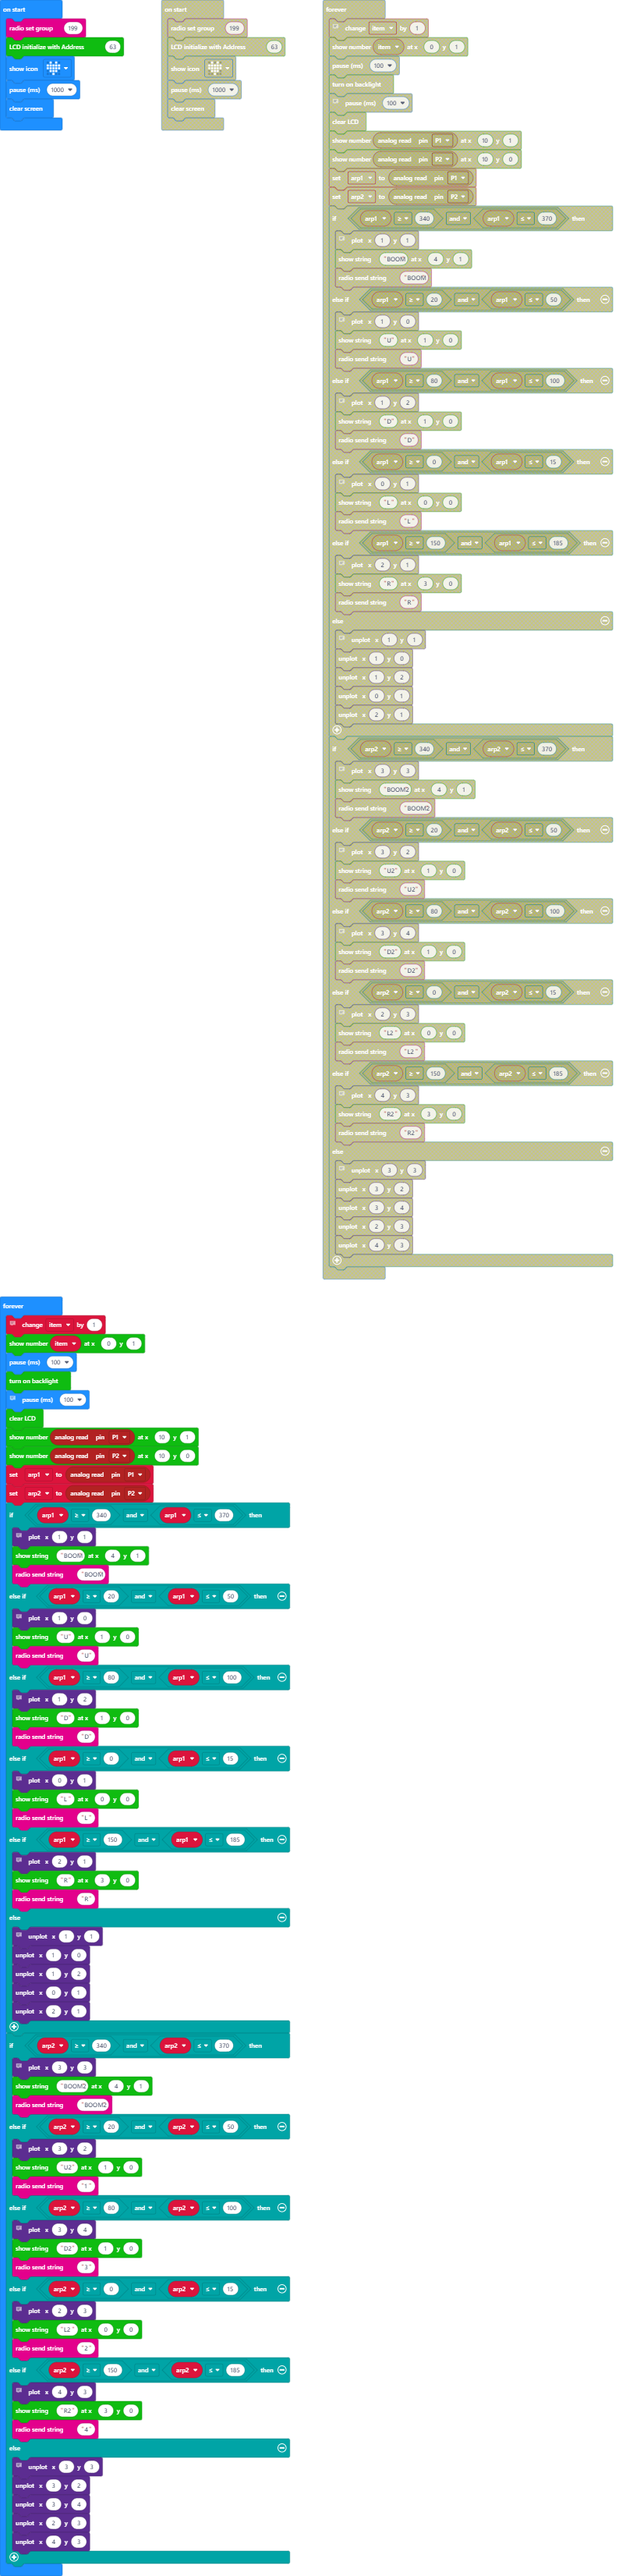
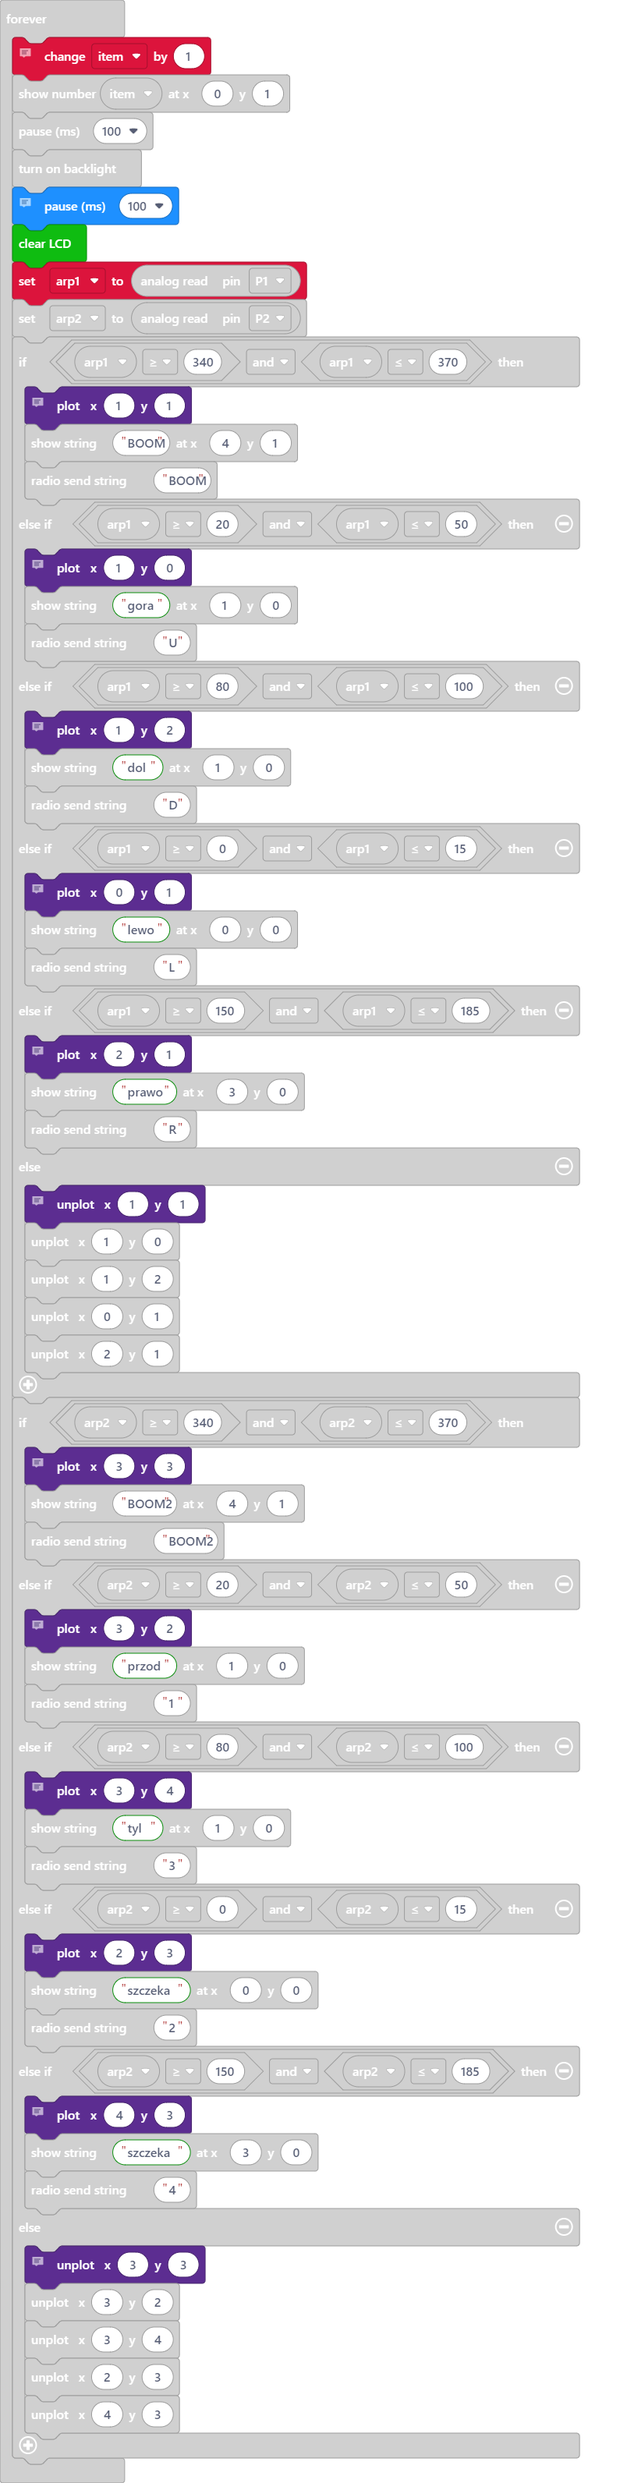
Update main.blocks, main.ts

diff --git a/main.ts b/main.ts
@@ -15,8 +15,6 @@ basic.forever(function () {
     // basic.showIcon(IconNames.Cow)
     basic.pause(100)
     I2C_LCD1602.clear()
-    I2C_LCD1602.ShowNumber(pins.analogReadPin(AnalogPin.P1), 10, 1)
-    I2C_LCD1602.ShowNumber(pins.analogReadPin(AnalogPin.P2), 10, 0)
     arp1 = pins.analogReadPin(AnalogPin.P1)
     arp2 = pins.analogReadPin(AnalogPin.P2)
     if (arp1 >= 340 && arp1 <= 370) {
@@ -27,22 +25,22 @@ basic.forever(function () {
     } else if (arp1 >= 20 && arp1 <= 50) {
         // UP
         led.plot(1, 0)
-        I2C_LCD1602.ShowString("U", 1, 0)
+        I2C_LCD1602.ShowString("gora", 1, 0)
         radio.sendString("U")
     } else if (arp1 >= 80 && arp1 <= 100) {
         // DOWN
         led.plot(1, 2)
-        I2C_LCD1602.ShowString("D", 1, 0)
+        I2C_LCD1602.ShowString("dol", 1, 0)
         radio.sendString("D")
     } else if (arp1 >= 0 && arp1 <= 15) {
         // LEFT
         led.plot(0, 1)
-        I2C_LCD1602.ShowString("L", 0, 0)
+        I2C_LCD1602.ShowString("lewo", 0, 0)
         radio.sendString("L")
     } else if (arp1 >= 150 && arp1 <= 185) {
         // RIGHT
         led.plot(2, 1)
-        I2C_LCD1602.ShowString("R", 3, 0)
+        I2C_LCD1602.ShowString("prawo", 3, 0)
         radio.sendString("R")
     } else {
         // EMPTY
@@ -60,22 +58,22 @@ basic.forever(function () {
     } else if (arp2 >= 20 && arp2 <= 50) {
         // UP
         led.plot(3, 2)
-        I2C_LCD1602.ShowString("U2", 1, 0)
+        I2C_LCD1602.ShowString("przod", 1, 0)
         radio.sendString("1")
     } else if (arp2 >= 80 && arp2 <= 100) {
         // DOWN
         led.plot(3, 4)
-        I2C_LCD1602.ShowString("D2", 1, 0)
+        I2C_LCD1602.ShowString("tyl", 1, 0)
         radio.sendString("3")
     } else if (arp2 >= 0 && arp2 <= 15) {
         // LEFT
         led.plot(2, 3)
-        I2C_LCD1602.ShowString("L2", 0, 0)
+        I2C_LCD1602.ShowString("szczeka", 0, 0)
         radio.sendString("2")
     } else if (arp2 >= 150 && arp2 <= 185) {
         // RIGHT
         led.plot(4, 3)
-        I2C_LCD1602.ShowString("R2", 3, 0)
+        I2C_LCD1602.ShowString("szczeka", 3, 0)
         radio.sendString("4")
     } else {
         // EMPTY
